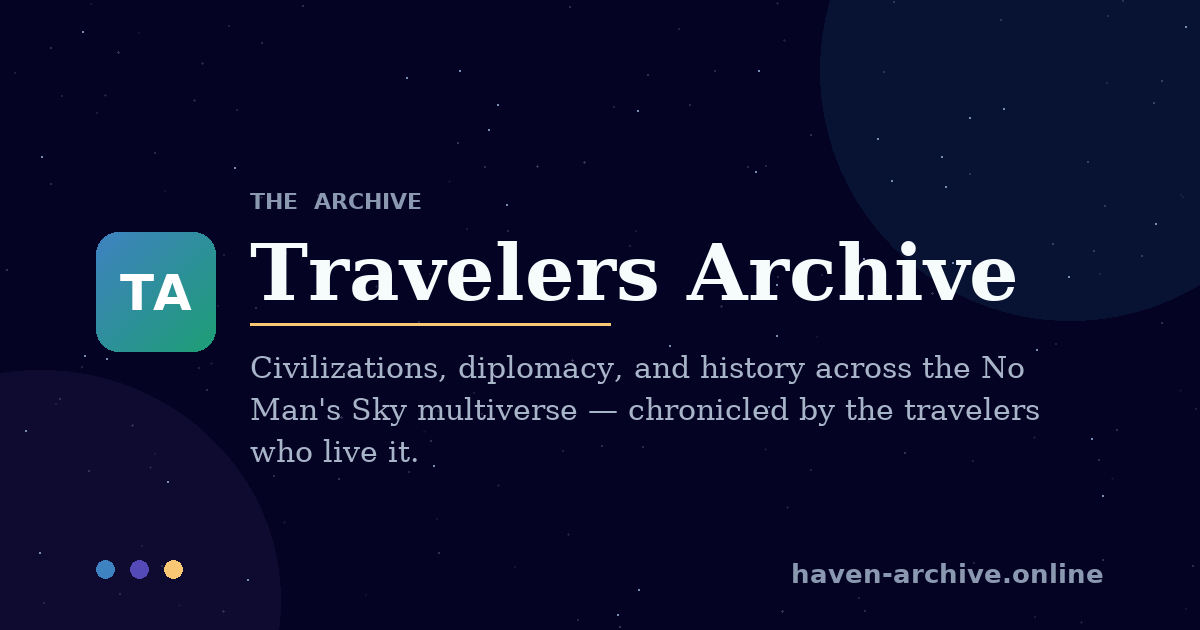
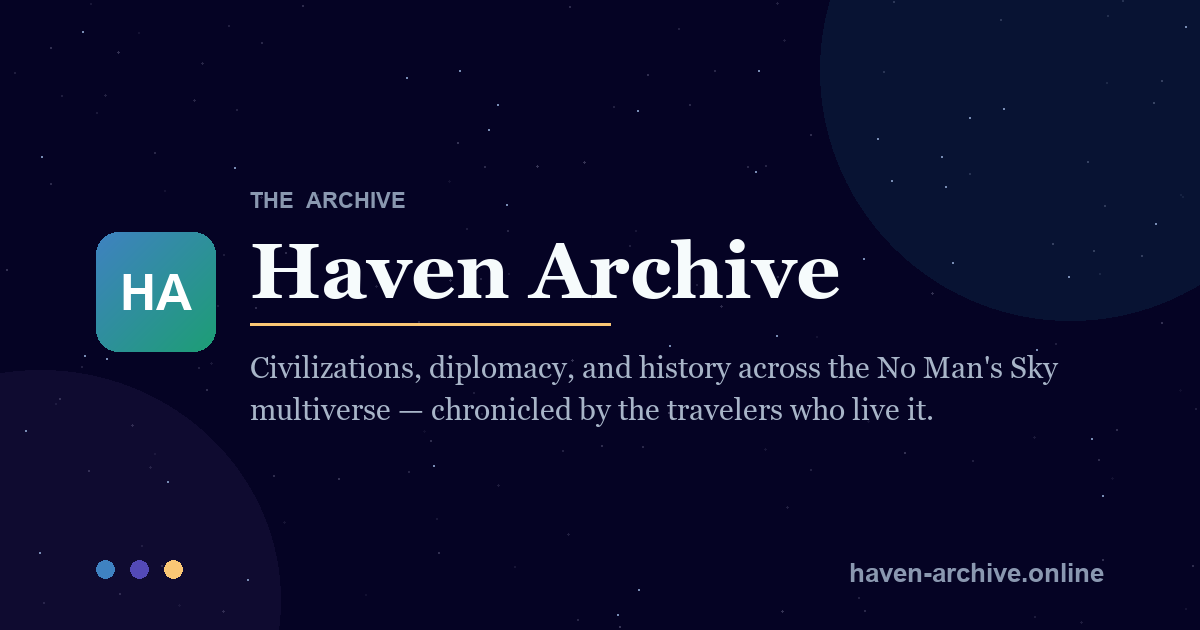
updates people updates

diff --git a/archive/frontend/index.html b/archive/frontend/index.html
@@ -3,7 +3,7 @@
   <head>
     <meta charset="UTF-8" />
     <meta name="viewport" content="width=device-width, initial-scale=1.0, viewport-fit=cover" />
-    <title>Travelers Archive</title>
+    <title>Haven Archive</title>
     <meta name="description" content="Civilizations, diplomacy, and history across the No Man's Sky multiverse — chronicled by the travelers who live it." />
     <meta name="theme-color" content="#050324" />
 
@@ -11,19 +11,19 @@
          every archive URL shows this card (hash routing means the server
          can't see which page a link points to). -->
     <meta property="og:type" content="website" />
-    <meta property="og:site_name" content="Travelers Archive" />
-    <meta property="og:title" content="Travelers Archive" />
+    <meta property="og:site_name" content="Haven Archive" />
+    <meta property="og:title" content="Haven Archive" />
     <meta property="og:description" content="Civilizations, diplomacy, and history across the No Man's Sky multiverse — chronicled by the travelers who live it." />
     <meta property="og:url" content="https://haven-archive.online/" />
-    <meta property="og:image" content="https://haven-archive.online/og-card.png" />
+    <meta property="og:image" content="https://haven-archive.online/og-card.png?v=2" />
     <meta property="og:image:width" content="1200" />
     <meta property="og:image:height" content="630" />
 
     <!-- Twitter / X card -->
     <meta name="twitter:card" content="summary_large_image" />
-    <meta name="twitter:title" content="Travelers Archive" />
+    <meta name="twitter:title" content="Haven Archive" />
     <meta name="twitter:description" content="Civilizations, diplomacy, and history across the No Man's Sky multiverse — chronicled by the travelers who live it." />
-    <meta name="twitter:image" content="https://haven-archive.online/og-card.png" />
+    <meta name="twitter:image" content="https://haven-archive.online/og-card.png?v=2" />
   </head>
   <body>
     <div id="root"></div>

diff --git a/archive/frontend/src/App.tsx b/archive/frontend/src/App.tsx
@@ -87,8 +87,8 @@ export function App() {
       {/* Desktop nav */}
       <nav className="ta-nav-desktop">
         <a href="#/" style={{ display: "flex", alignItems: "center", gap: 8 }}>
-          <span className="ta-logo-mark">TA</span>
-          <span className="ta-logo-text">Travelers Archive</span>
+          <span className="ta-logo-mark">HA</span>
+          <span className="ta-logo-text">Haven Archive</span>
         </a>
         <div className="ta-nav-spacer" />
         <SearchBar />
@@ -111,8 +111,8 @@ export function App() {
       <header className="ta-mobile-bar">
         <div className="ta-mobile-bar-left">
           <button className="ta-mobile-icon-btn" onClick={() => setDrawerOpen(true)} aria-label="Menu">≡</button>
-          <span className="ta-logo-mark">TA</span>
-          <span className="ta-mobile-page-title">{PAGE_TITLES[route.name] || "Travelers Archive"}</span>
+          <span className="ta-logo-mark">HA</span>
+          <span className="ta-mobile-page-title">{PAGE_TITLES[route.name] || "Haven Archive"}</span>
         </div>
         <div className="ta-mobile-bar-right">
           <NotificationBell />

diff --git a/archive/frontend/src/pages/Newsroom.tsx b/archive/frontend/src/pages/Newsroom.tsx
@@ -84,7 +84,7 @@ export function Newsroom({ beat }: Props) {
   return (
     <>
       <div className="ta-home-hero">
-        <h1 className="ta-home-hero-name">The Travelers Archive</h1>
+        <h1 className="ta-home-hero-name">The Haven Archive</h1>
         <div className="ta-home-hero-tag">No Man's Sky, catalogued &amp; chronicled by the people who found it</div>
         <div className="ta-home-stats">
           <HomeStat n={catCount} label="catalogue pages" />

diff --git a/archive/scripts/make_og_card.py b/archive/scripts/make_og_card.py
@@ -1,5 +1,5 @@
 """
-Generate the static Open Graph / Twitter share card for the Travelers
+Generate the static Open Graph / Twitter share card for the Haven
 Archive (1200x630 PNG).
 
 The card is STATIC — it doesn't change per request — so this is a
@@ -15,7 +15,7 @@ TTF (DejaVu Serif — install fonts-dejavu-core if missing).
 
 Design (matches the site masthead):
   - cosmic navy background #050324 with a faint starfield
-  - teal->green "TA" tile (the navbar mark) + "Travelers Archive"
+  - teal->green "HA" tile (the navbar mark) + "Haven Archive"
     serif wordmark
   - dim tagline, wrapped
   - teal/violet/gold accent dots + the domain
@@ -47,16 +47,26 @@ DOMAIN = "haven-archive.online"
 
 
 # ---- font loading ----------------------------------------------------
+# DejaVu first (the Pi build environment), then Windows (Georgia/Arial)
+# and macOS fallbacks so the card can be regenerated on any dev machine.
 SERIF_CANDIDATES = [
     "/usr/share/fonts/truetype/dejavu/DejaVuSerif-Bold.ttf",
     "/usr/share/fonts/truetype/dejavu/DejaVuSerif.ttf",
+    "C:/Windows/Fonts/georgiab.ttf",
+    "C:/Windows/Fonts/georgia.ttf",
+    "/Library/Fonts/Georgia.ttf",
 ]
 SERIF_REG_CANDIDATES = [
     "/usr/share/fonts/truetype/dejavu/DejaVuSerif.ttf",
+    "C:/Windows/Fonts/georgia.ttf",
+    "/Library/Fonts/Georgia.ttf",
 ]
 SANS_CANDIDATES = [
     "/usr/share/fonts/truetype/dejavu/DejaVuSans-Bold.ttf",
     "/usr/share/fonts/truetype/dejavu/DejaVuSans.ttf",
+    "C:/Windows/Fonts/arialbd.ttf",
+    "C:/Windows/Fonts/arial.ttf",
+    "/Library/Fonts/Arial.ttf",
 ]
 
 
@@ -91,10 +101,10 @@ def _rounded_gradient_tile(size: int, radius: int) -> Image.Image:
     # "TA" centered
     d = ImageDraw.Draw(tile)
     f = _font(SANS_CANDIDATES, int(size * 0.42))
-    tw = d.textbbox((0, 0), "TA", font=f)
+    tw = d.textbbox((0, 0), "HA", font=f)
     cx = (size - (tw[2] - tw[0])) / 2 - tw[0]
     cy = (size - (tw[3] - tw[1])) / 2 - tw[1]
-    d.text((cx, cy), "TA", font=f, fill=(255, 255, 255))
+    d.text((cx, cy), "HA", font=f, fill=(255, 255, 255))
     return tile
 
 
@@ -150,7 +160,7 @@ def make(out_path: Path) -> None:
 
     # wordmark
     wf = _font(SERIF_CANDIDATES, 78)
-    d.text((text_x, tile_y - 6), "Travelers Archive", font=wf, fill=TEXT)
+    d.text((text_x, tile_y - 6), "Haven Archive", font=wf, fill=TEXT)
 
     # thin rule under wordmark
     rule_y = tile_y + 92

diff --git a/archive/app/main.py b/archive/app/main.py
@@ -60,7 +60,7 @@ def create_app() -> FastAPI:
     settings = get_settings()
 
     app = FastAPI(
-        title="Travelers Archive",
+        title="Haven Archive",
         version=__version__,
         description=(
             "A No Man's Sky community archive: news room, civilizations "